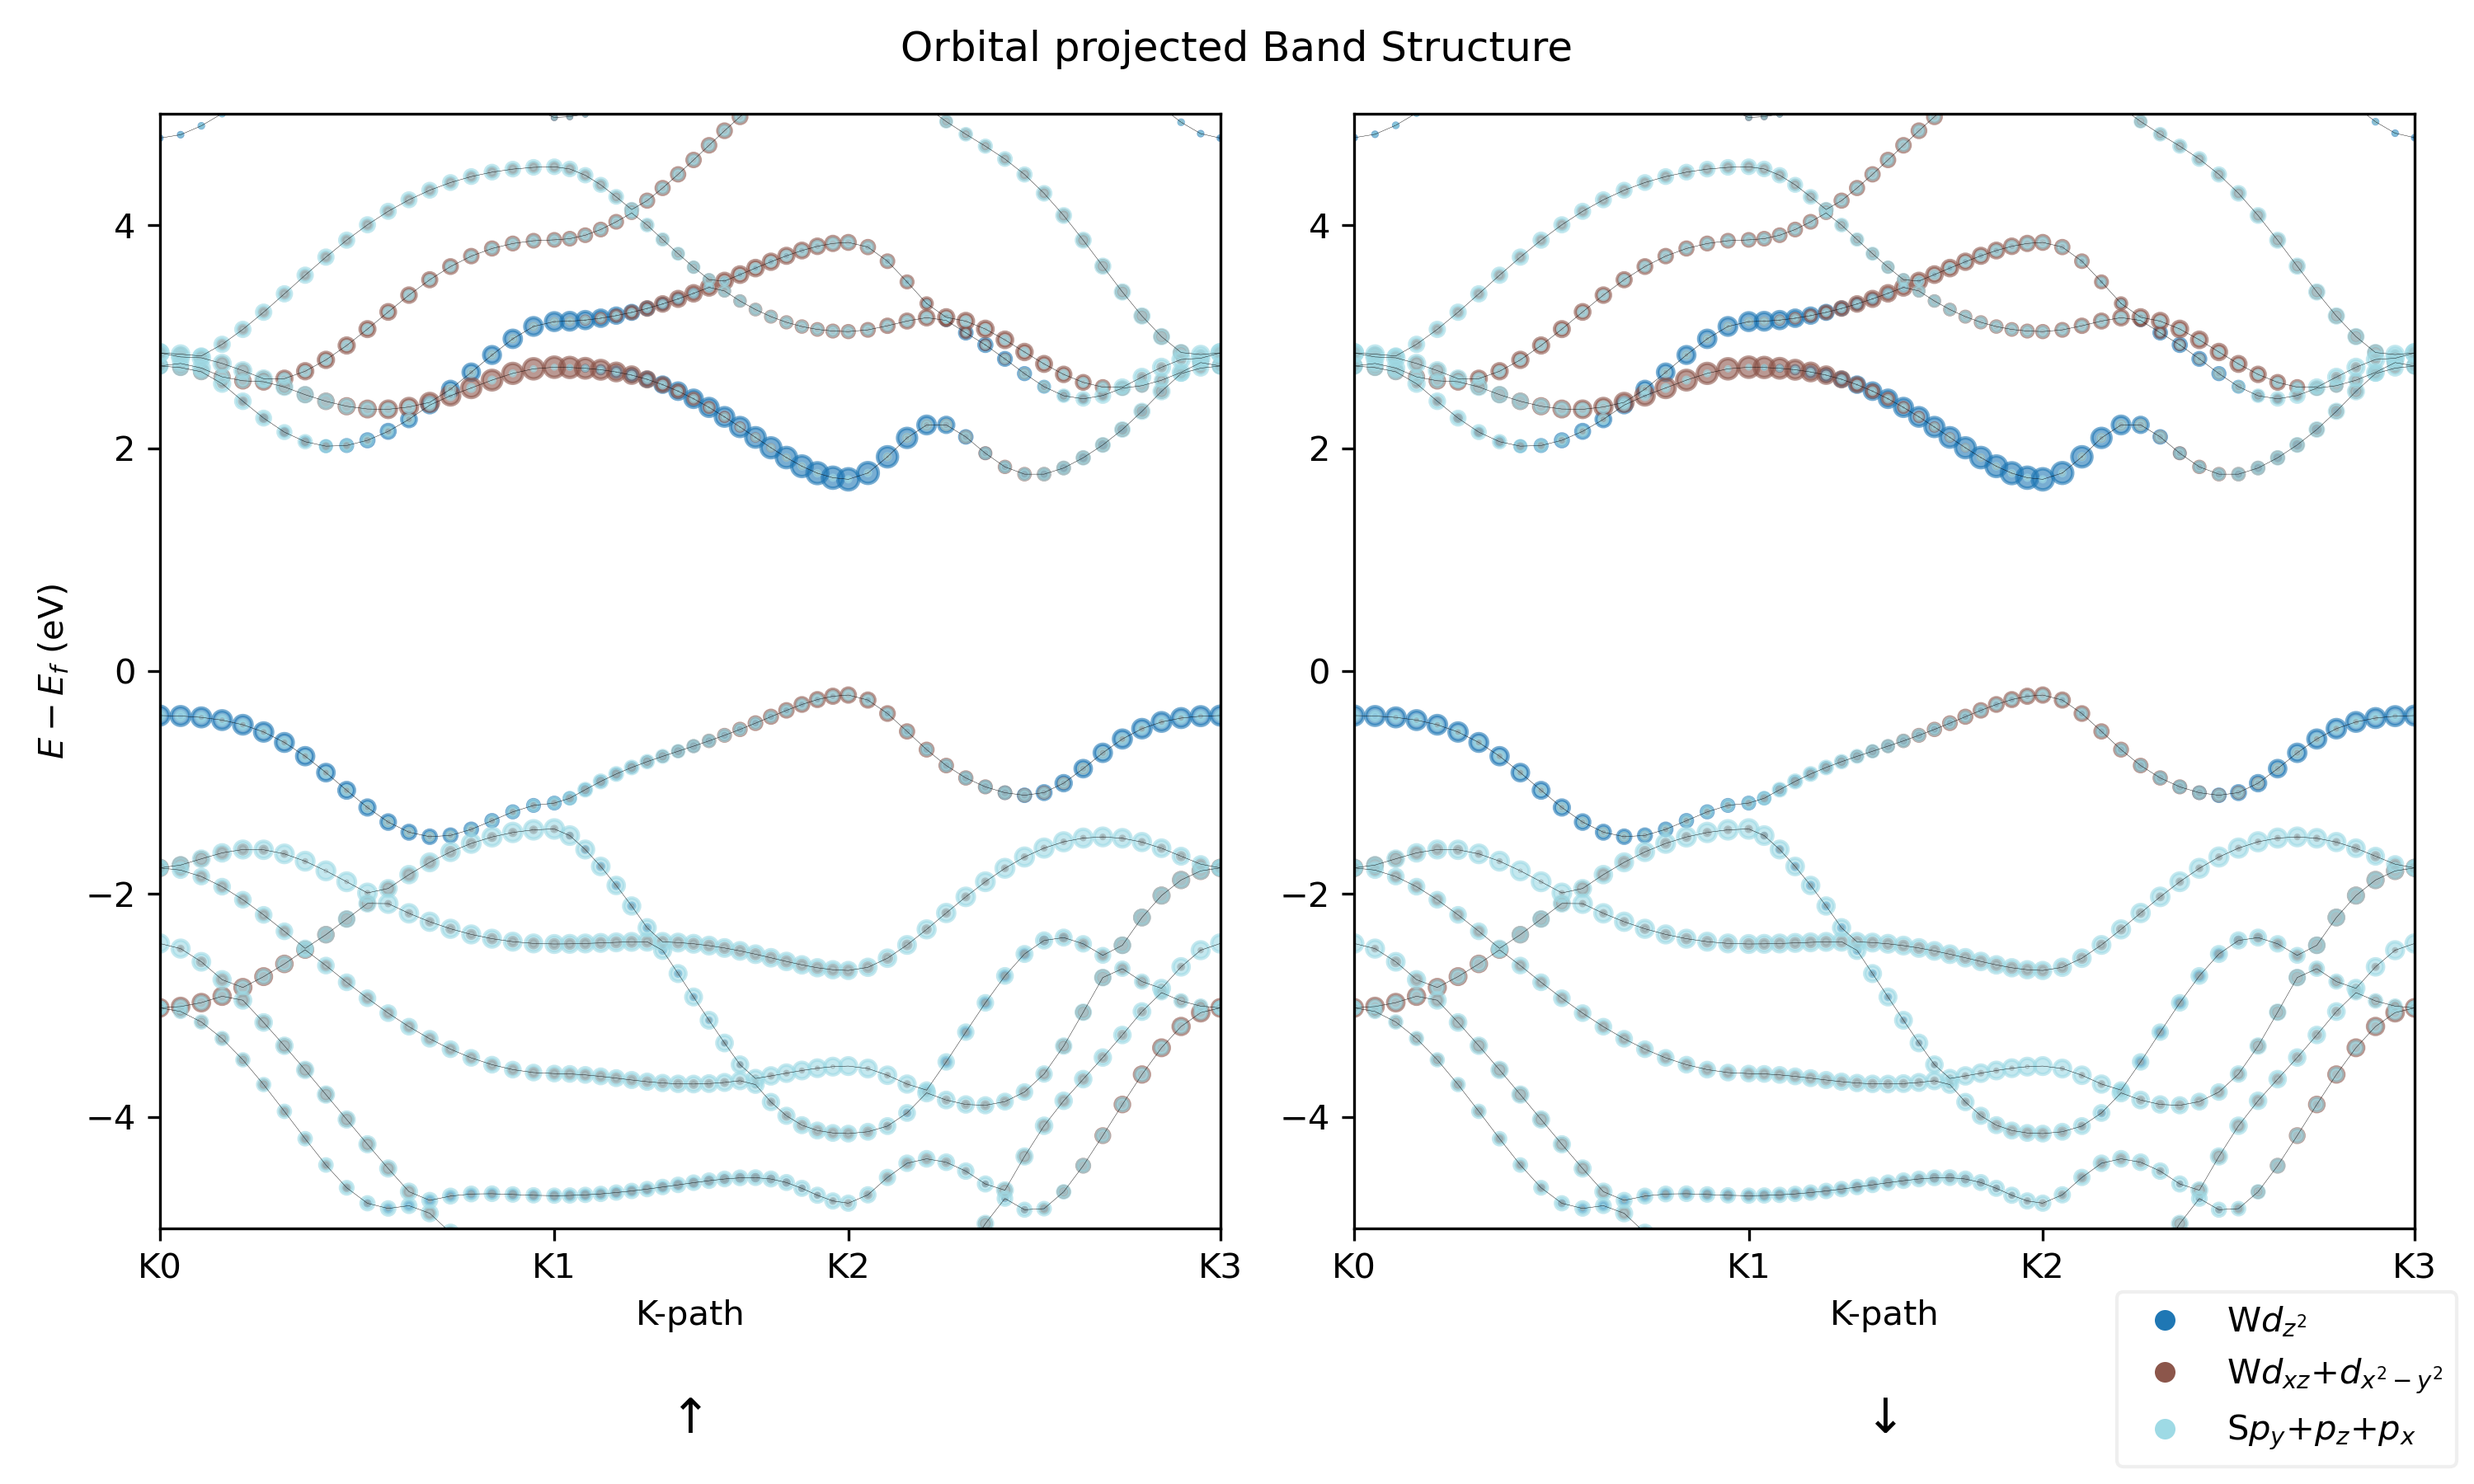
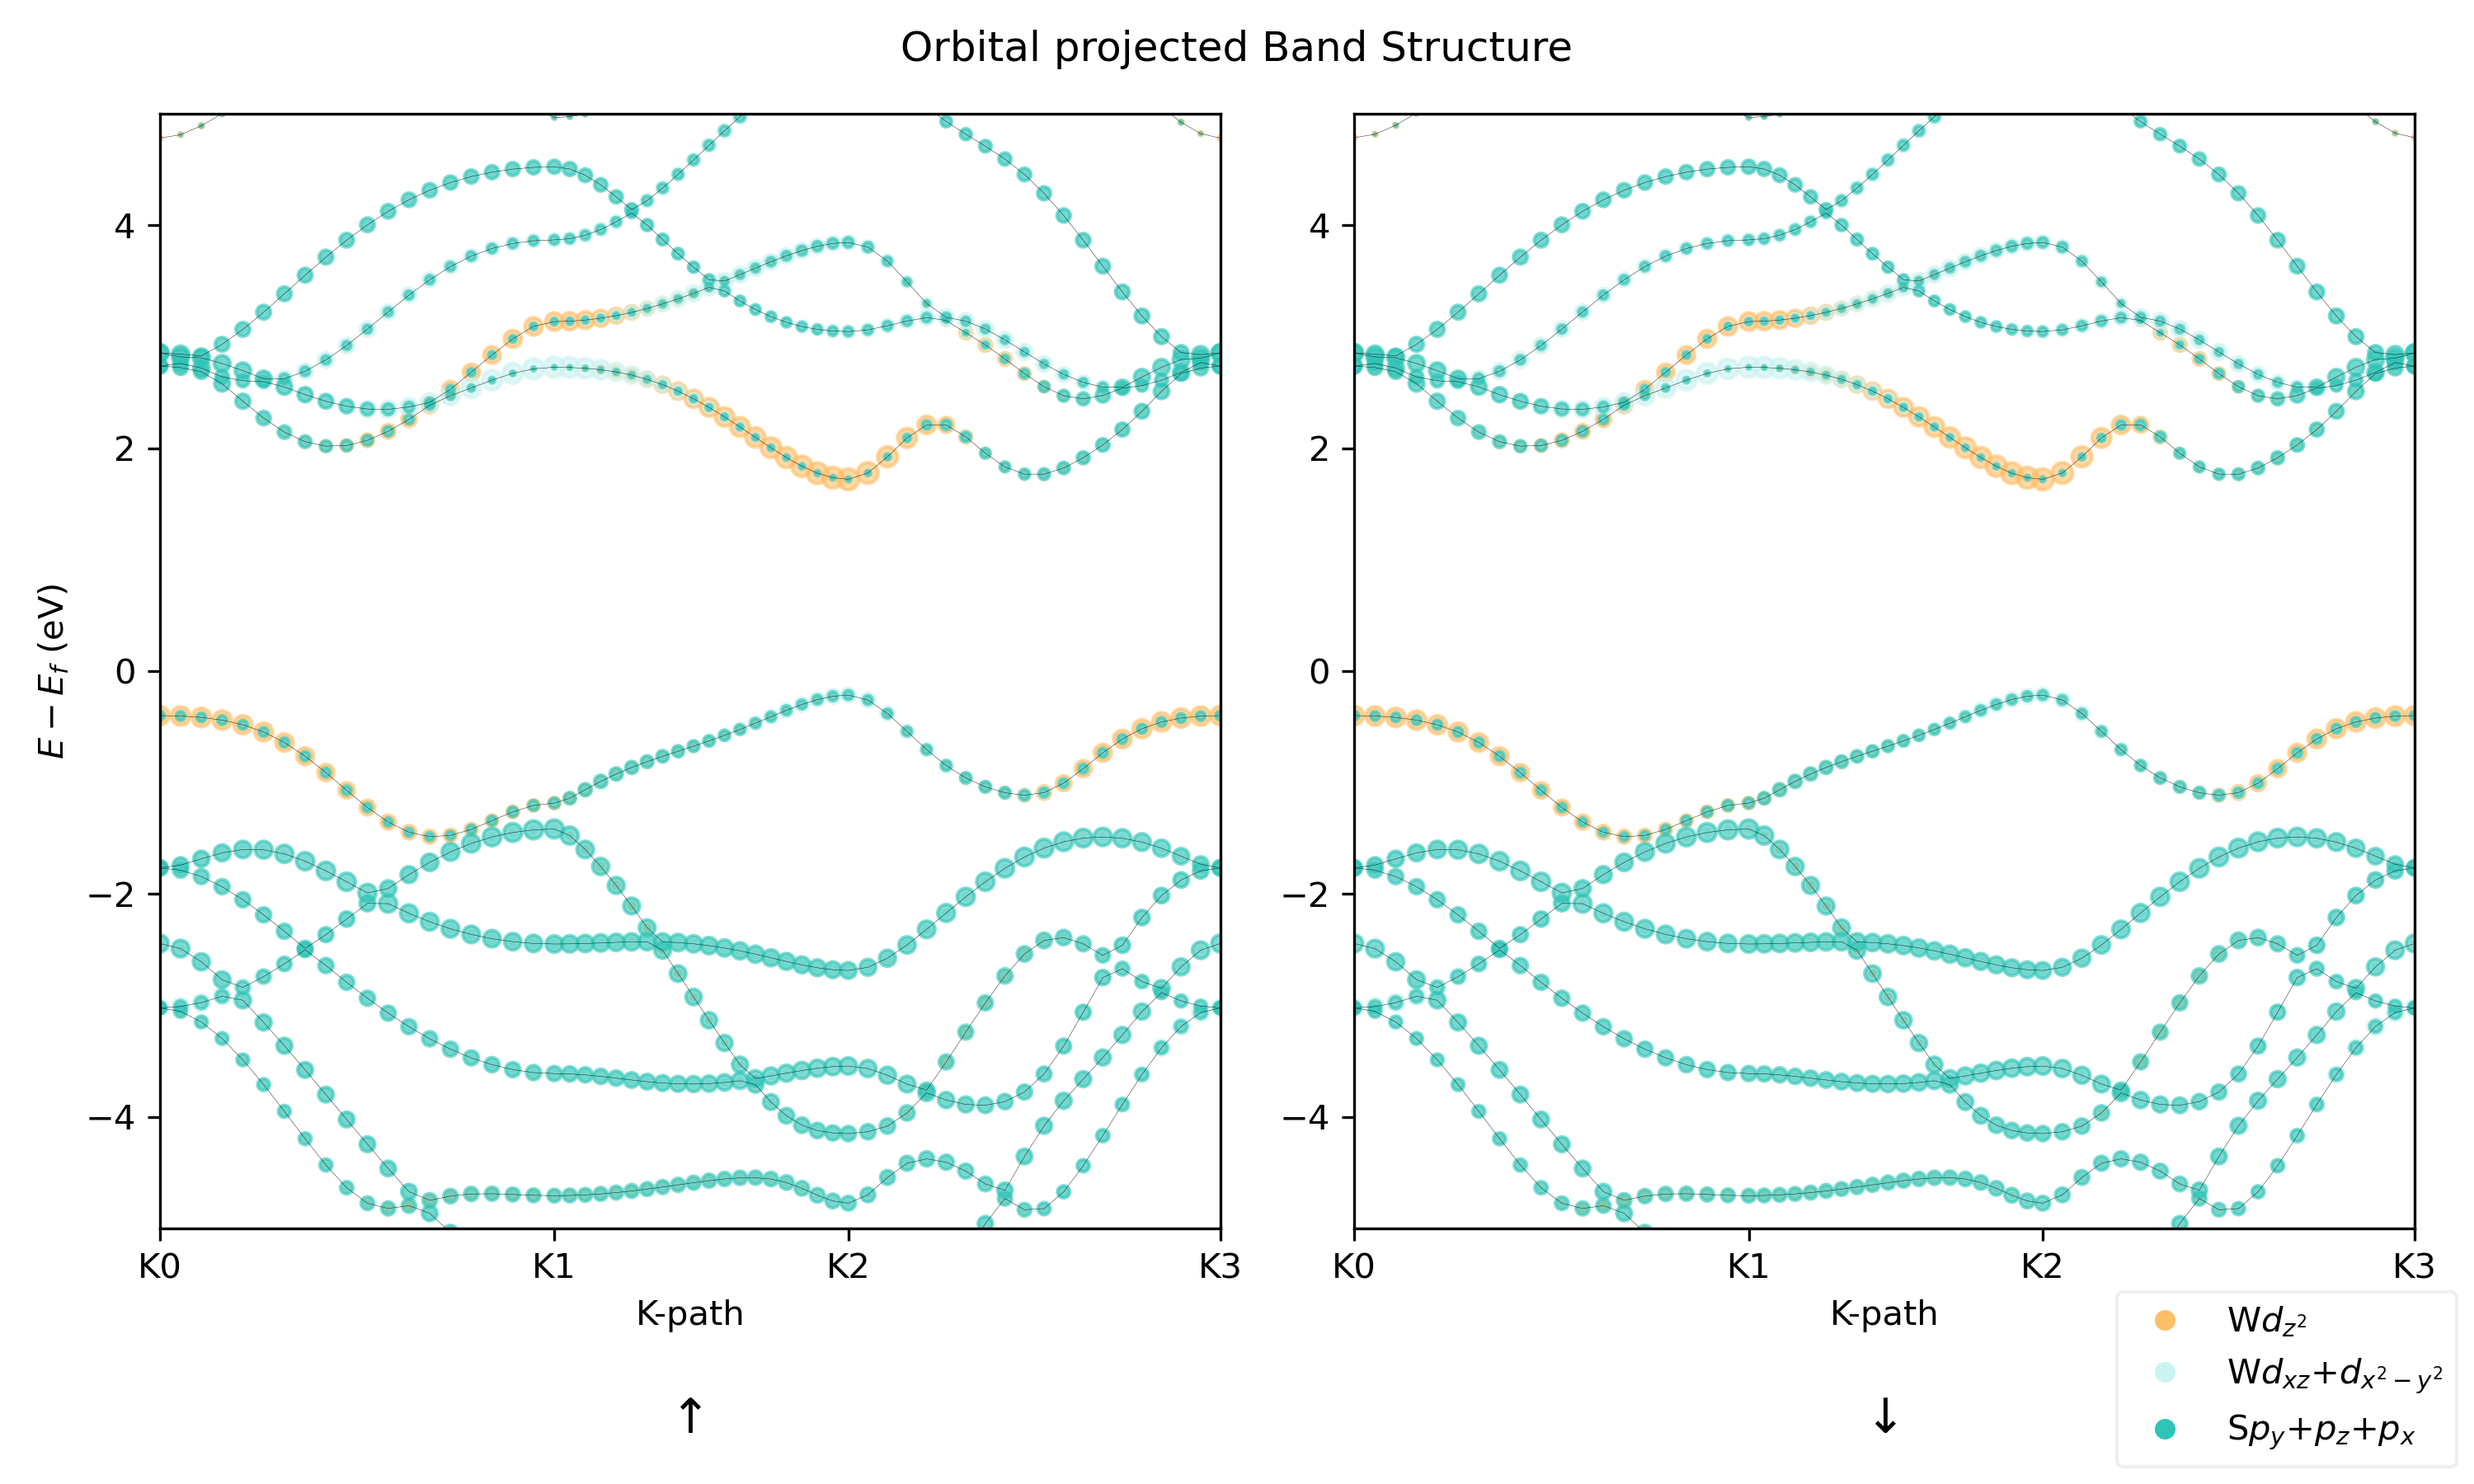
fixed band parser and plotter to accept hex codes

diff --git a/orbvis/band/parser.py b/orbvis/band/parser.py
@@ -1,5 +1,6 @@
 import ast
 import matplotlib.cm as cm
+from matplotlib import colors as mcolors
 import numpy as np
 import re
 
@@ -76,11 +77,22 @@ class VASPStyleParser:
                 else:
                     self._parse_single_key(key, value)
 
+    def _normalize_color(self,c):
+        if isinstance(c, str):
+            c = c.strip()
+            # Add # if it looks like a hex code without it
+            if len(c) == 6 and all(ch in '0123456789abcdefABCDEF' for ch in c):
+                c = '#' + c
+        try:
+            return mcolors.to_hex(c)
+        except Exception:
+            raise ValueError(f"Invalid color: {c}")
+
     def _parse_buffered_value(self, key, buffer):
         try:
             parsed = ast.literal_eval(buffer)
         except Exception:
-            # If literal_eval fails, assume raw string (unquoted)
+            # Fall back to raw string if it's not valid Python
             parsed = buffer.strip()
 
         if key == 'ORBITAL_INFO':
@@ -91,23 +103,24 @@ class VASPStyleParser:
 
         elif key == 'COLOR_SCHEME':
             if self.params['PLOT_OPTION'] == 0:
-                # Accept int, list of strings, or string (colormap name)
                 if isinstance(parsed, int):
-                    self.params[key] = parsed
-                elif isinstance(parsed, list) and all(isinstance(c, str) for c in parsed):
-                    self.params[key] = parsed
+                    if parsed in [0, 1]:
+                        self.params[key] = parsed
+                    else:
+                        raise ValueError("COLOR_SCHEME must be 0 (normal) or 1 (pastel) when using an integer.")
+                elif isinstance(parsed, list):
+                    try:
+                        self.params[key] = [self._normalize_color(c) for c in parsed]
+                    except ValueError as e:
+                        raise ValueError(f"Invalid color in COLOR_SCHEME list: {e}")
                 elif isinstance(parsed, str):
-                    self.params[key] = parsed
+                    self.params[key] = parsed  # Assume it's a colormap name
                 else:
-                    raise ValueError(
-                        "COLOR_SCHEME must be int, list of color strings, or colormap name string when PLOT_OPTION=0."
-                    )
+                    raise ValueError("Invalid COLOR_SCHEME type for PLOT_OPTION=0.")
             elif self.params['PLOT_OPTION'] == 1:
                 if not isinstance(parsed, str):
-                    raise ValueError(
-                        "COLOR_SCHEME must be a colormap name string when PLOT_OPTION=1."
-                    )
-                self.params[key] = parsed
+                    raise ValueError("COLOR_SCHEME must be a colormap name string when PLOT_OPTION=1.")
+                self.params[key] = parsed.strip()
 
     def _parse_single_key(self, key, value):
         # Try to parse numerics safely, fallback to string for others

diff --git a/orbvis/band/plotter_new.py b/orbvis/band/plotter_new.py
@@ -53,8 +53,12 @@ def orbscatter(**params):
         except Exception:
             raise ValueError(f"Invalid colormap: {color_scheme}")
     elif isinstance(color_scheme, int):
-        pastel = color_scheme == 2
-        color_scheme = [get_hex(c) for c in get_colors(num_cases, pastel_factor=0.7 if pastel else 0.0)]
+        if color_scheme == 0:
+            color_scheme = [get_hex(c) for c in get_colors(num_cases)]
+        elif color_scheme == 1:
+            color_scheme = [get_hex(c) for c in get_colors(num_cases, pastel_factor=0.7)]
+        else:
+            raise ValueError("COLOR_SCHEME int value must be 0 (normal) or 1 (pastel).")
     else:
         raise ValueError("Invalid COLOR_SCHEME format.")
 
